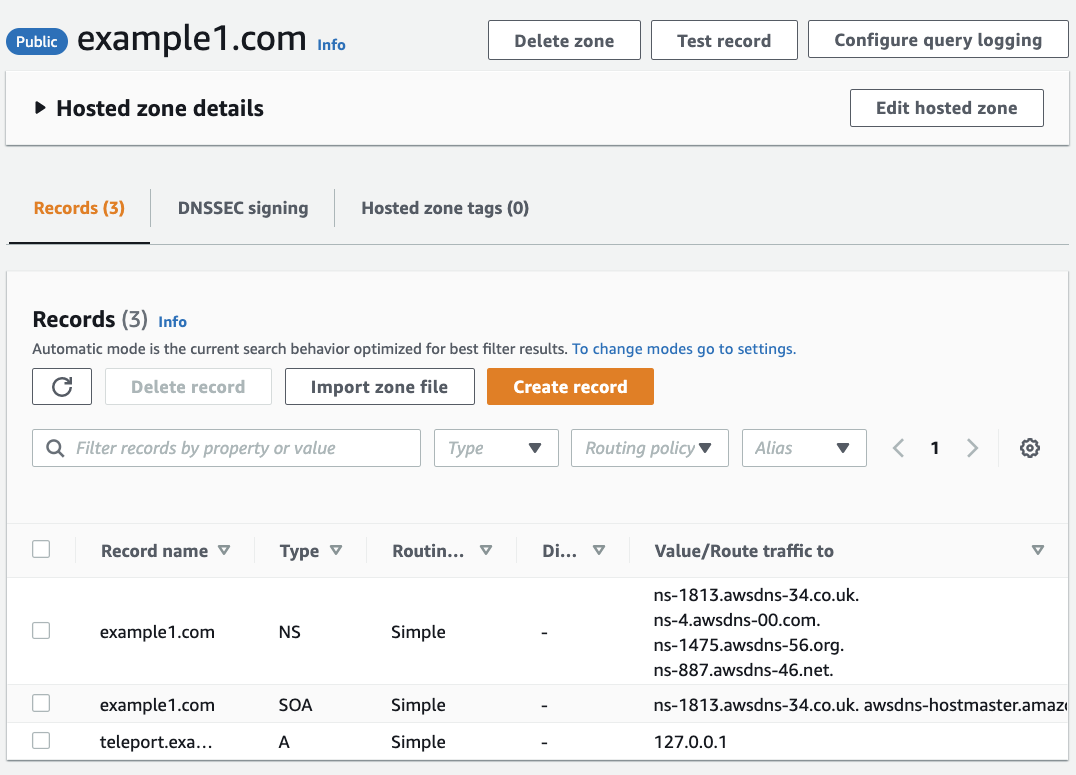
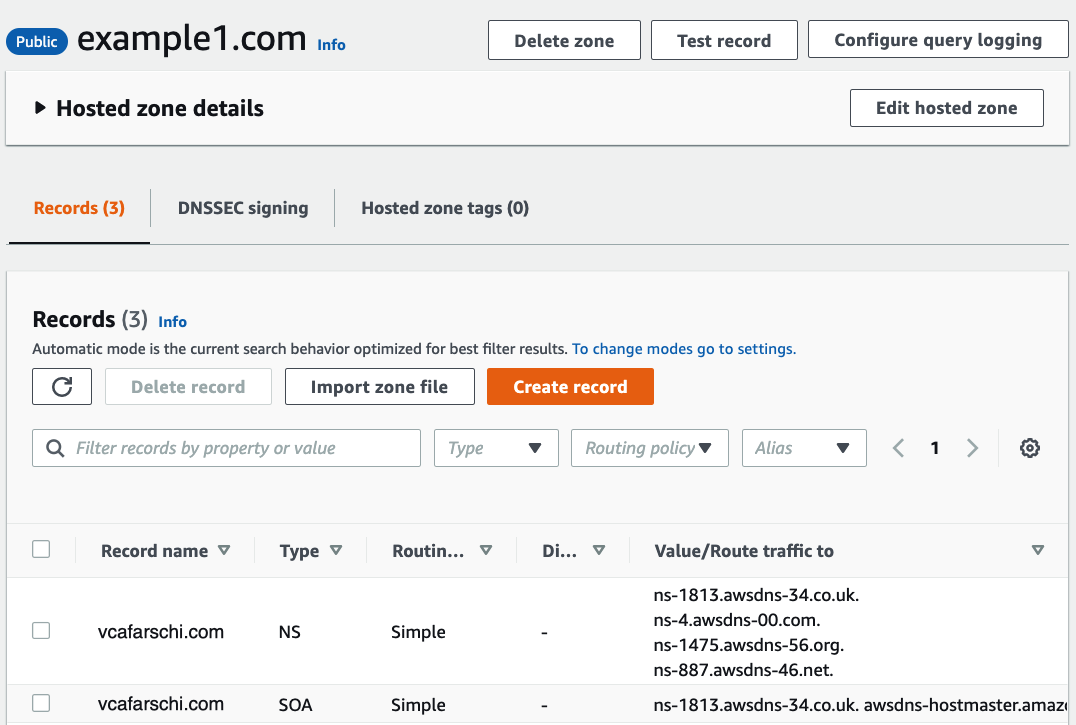
py changes

diff --git a/python/python.md b/python/python.md
@@ -9,6 +9,33 @@
 
 # Python OOP
 
+## Python Constructors
+
+Before
+```
+class Robot:
+  def introduce_self(self):
+    print(f"My name is {self.name}")
+
+r1 = Robot()
+r1.name = "Tom"
+r1.color = "red"
+r1.weight = 30
+```
+- This is error prone, as you have to manually and everytime to add values to object attributes. What if instead of r1.name you type r1.nameee. You will get the error.
+- Istead use Constructors, which will initialize the obejects attributes
+```
+class Robot:
+  def __init__(self, givenName, givenColor, givenWeight):
+  self.name = givenName
+  self.color = givenColor
+  self.weight = givenWeight
+
+  def introduce_self(self):
+    print(f"My name is {self.name}")
+
+r1 = Robot(Tom, red, 30)
+```
 ## Self
 - By using the “self”  we can access the attributes and methods of the class in python
 - It binds the attributes with the given arguments
@@ -57,7 +84,15 @@ TypeError: __init__() takes 0 positional arguments but 1 was given
   - self is parameter in Instance Method and user can use another parameter name in place of it. But it is advisable to use self because it increases the readability of code, and it is also a good programming practice.
 
 - When we call a method of this object as myobject.method(arg1, arg2), this is automatically converted by Python into MyClass.method(myobject, arg1, arg2) – this is all the special self is about.
+```
+class Robot:
+  def introduce_self(self):
+    print(f"My name is {self.name}")
 
+r1 = Robot()
+r1.name = "Tom"
+r1.introduce_self() # It will execute My name is r1.name
+```
 
 ## __init__
 - The __init__ method is similar to constructors in C++ and Java
@@ -126,4 +161,147 @@ obj.calculate()
 obj.display()
 
 ```
-##
+
+
+## Instance variables (attributes)
+
+# Functions
+## 5 Types of Arguments in Python Function Definition:
+1. default arguments
+2. keyword arguments
+3. positional arguments
+4. arbitrary positional arguments
+5. arbitrary keyword arguments
+
+### Python Function Definition:
+ - The function definition starts with the keyword **def**.
+ - It must be followed by the **function name** and the parenthesized list of **formal parameters**. 
+ - The statements that form the body of the function start at the next line and must be indented.
+
+![](images/python-function-descr.png)
+
+- The terms **parameter** and **argument** can be used for the same thing
+- However, there is a slight distinction between these two terms
+- **Parameter** is the variable inside the parentheses in the function definition (In the above example are **arg1** and **arg2**)
+- **Argument** is a variable, value or object passed to a function when it is called (In the above example are **a** and **b**)
+
+
+### 1. default arguments
+- Default arguments are values that are provided while defining functions.
+- The assignment operator = is used to assign a default value to the argument.
+- Default arguments become optional during the function calls.
+- If we provide a value to the default arguments during function calls, it overrides the default value.
+- The function can have any number of default arguments
+- **Default arguments should follow non-default arguments.**
+
+In the below example, the default value is given to argument **b** and **c**
+```
+def add(a, b=5, c=10):
+    return (a + b + c)
+```
+This function can be called in 3 ways:
+1. Giving only the mandatory argument
+    - **a** is mandatory
+    - **b** and **c** are optional as they have default values
+    ```
+    print(add(3))
+    #Output:18
+    ```
+2. Giving one of the optional arguments.
+    - 3 is assigned to **a**
+    - 4 is assigned to **b**
+    - and **c** has default value of 10
+    ```
+    print(add(3,4))
+    #Output:17
+    ```
+3. Giving all the arguments.
+    - In this case, we override all the default parameters
+    ```
+    print(add(2,3,4))
+    #Output:9
+    ```
+
+Note: Default values are evaluated only once at the point of the function definition in the defining scope. So, it makes a difference when we pass mutable objects like a list or dictionary as default values.
+
+- What happens if you define a function and you put default values first and then non-default
+  ```
+  def add(b=5, c=10, a):
+      return (a + b + c)
+
+  # Output
+      def add(b=5, c=10, a):
+                        ^
+  SyntaxError: non-default argument follows default argument
+  ```
+
+##3 positional arguments
+**positional arguments** means that the argument must be provided in a correct position in a function call.
+```
+# Here name and age are positional arguments.
+def info(name, age):
+    print(f"Hi, my name is {name}. I am  {age * 365.25} days old.")
+
+# This does what is expected
+info("Alice", 23.0)
+
+# This doesn't
+info(23.0, "Alice")
+```
+
+### keyword arguments
+
+### variable-length arguments
+- Variable-length arguments are also known as arbitrary arguments.
+- If we don’t know the number of arguments needed for the function in advance, we can use arbitrary arguments
+
+Two types of arbitrary arguments:
+  - arbitrary positional arguments
+  - arbitrary keyword arguments
+
+### 4. arbitrary positional arguments, *args
+- If you do not know how many arguments that will be passed into your function, add a * before the parameter name in the function definition.
+- This way the function will receive a tuple of arguments, and can access the items accordingly
+
+
+- Note: “We use the “wildcard” or “*” notation like this – *args OR **kwargs – as our function’s argument when we have doubts about the number of  arguments we should pass in a function.”
+
+
+- The special syntax *args in function definitions in python is used to pass a variable number of arguments to a function. 
+- It is used to pass a non-key worded, variable-length argument list.
+
+Example:
+Let’s create a function called mySum that accepts any number of arguments and sums them up:
+```
+def mySum(*args):
+    s = 0
+    for num in args:
+        s += num
+    return s
+mySum(1,2)        # returns 3
+mySum(1,2,2,3,4)  # returns 12
+```
+- Notice how *args are looped just like a list of numbers. This is because *args is a list of number arguments
+
+
+
+### arbitrary keyword arguments, **kwargs
+- You can use **kwargs to pass any number of keyword arguments to a function
+```
+def read(**kwargs):
+    for key, value in kwargs.items():
+        print("{}: {}".format(key, value))
+read(shoes="Adidas", shirt="H&M")
+read(socks="Nike")
+
+```
+
+- Notice how **kwargs is looped through just like a dictionary. This is because **kwargs actually is a dictionary
+
+below is an implementation of the combination of *args and **kwargs
+```
+
+```
+
+*args and *kwargs Conclusion
+- Now that you understand *args and **kwargs, it is a good time to point out that there is nothing special about the words args and kwargs. The naming is actually up to you: *args could just as well be named *numbers. **kwargs could just as well be named **items.

diff --git a/aws/Route53/route53.md b/aws/Route53/route53.md
@@ -267,17 +267,18 @@ STRIPES add image
 
 ## How to use a domain in AWS Route53 if you purchased it in a different registrar ( for example GoDaddy)?
 ### With other words you want to make Amazon Route 53 your DNS service
-![](images/godaddy_to_route53.svg)
 0. Let's assume you bought **vcafarschi.com** domain in **Godaddy** (or other Domain Registrars) and you want to make Route53 the DNS Service for this domain.
 1. Create a **Public hosted zone** that has the **same name as your domain**. It will tell Amazon Route 53 how you want to route traffic for your domain
     - When you create a hosted zone, Route 53 automatically creates a name server (NS) record and a start of authority (SOA) record for the zone. 
     - The NS record identifies the four name servers that Route 53 associated with your hosted zone.
+    - ![](images/pub-hosted-zone.png)
 2. Create records in the Public Hosted Zone created previously
     - Import a zone file
     - Or Create records individually in the console
 3. To make Route 53 the DNS service for your domain, you Update the Name Servers on **Godaddy** with these four name servers you got in step 1
     - This way Godaddy will communicate the new **Name Servers** to the **TLD** name server.
     -  So whenever a request comes for **vcafarschi.com**, the TLD server will return Route53 NS and not the Godaddy ones.
+    - ![](images/godaddy-nameservers.png)
 
 
 ## Routing traffic for subdomains
